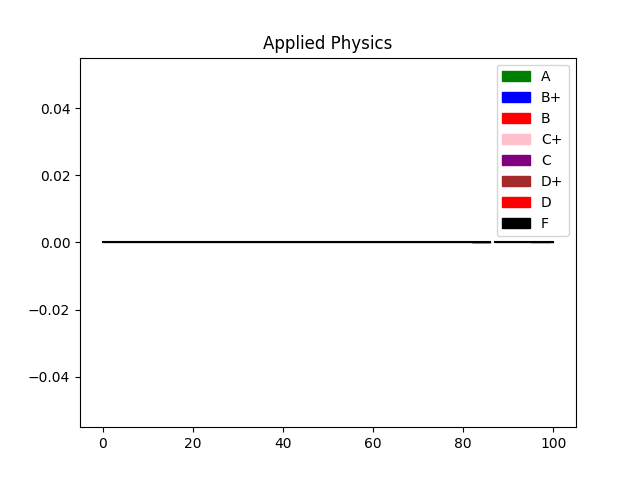
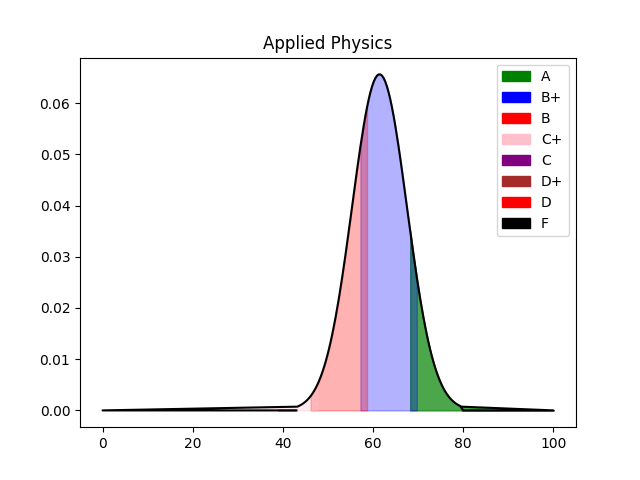
fully updated

diff --git a/GradeApp/views.py b/GradeApp/views.py
@@ -24,10 +24,10 @@ grade_schema = {
         'Final': 50
     },
     'Introduction To Management': {
-        'One Hour Test/Mid Term': 30,
+        'One Hour Test/Mid Term': 40,
         'Assignment': 10,
         'Quiz': 10,
-        'Final': 50
+        'Final': 40
     },
     'Applied Physics': {
         'One Hour Test/Mid Term': 25,
@@ -62,12 +62,23 @@ def forget(request):
     if not uname or not section:
         return render(request, "invalid.html")
     try:
-        tables[section.upper()].objects.get(uname=uname).delete()
-    except tables[section.upper()].DoesNotExist:
-        return render(request, "invalid.html")
+        try:
+            tables[section.upper()].objects.get(uname=uname).delete()
+        except tables[section.upper()].DoesNotExist:
+            return render(request, "invalid.html")
+    except tables[section.upper()].MultipleObjectsReturned:
+        for a in tables[section.upper()].objects.all():
+            if a.uname == uname:
+                a.delete()
     return render(request, "login.html")
 
+
 def add_new_record(input_data):
+    try:
+        temp = tables[input_data["section"].upper()].objects.get(uname=input_data["id"])
+        temp.delete()
+    except tables[input_data["section"].upper()].DoesNotExist:
+        pass
     with requests.session() as s:
         payload = {'login': input_data["id"],
                    'password': input_data["password"]
@@ -109,7 +120,7 @@ def add_new_record(input_data):
                     temp_score[exam.text.strip()].append(
                         float(re.findall(r"(.*)(?:\s*</td>, '\\n'])", str(score_row.contents))[0].strip()))
 
-        # Calculate Aggregate Based on acquired Scores
+            # Calculate Aggregate Based on acquired Scores
             aggregate = 0
             for k, v in temp_score.items():
                 aggregate += (sum(v) / (len(v) * 100)) * grade_schema[key][k]
@@ -132,7 +143,7 @@ def add_new_record(input_data):
         *models.GradesB.objects.values_list('istd'),
         *models.GradesC.objects.values_list('istd')
     ]))
-    predictions.decide_boundary(2, "Into To Management", "ABC/imgt.png", np.array([
+    predictions.decide_boundary(2, "Intro To Management", "ABC/imgt.png", np.array([
         *models.GradesA.objects.values_list('imgt'),
         *models.GradesB.objects.values_list('imgt'),
         *models.GradesC.objects.values_list('imgt')

diff --git a/GradeApp/models.py b/GradeApp/models.py
@@ -13,6 +13,9 @@ class GradesA(models.Model):
     imgt = models.FloatField()
     ap = models.FloatField()
 
+    def __str__(self):
+        return self.name
+
 
 class GradesB(models.Model):
     uname = models.CharField(max_length=30)
@@ -25,6 +28,8 @@ class GradesB(models.Model):
     imgt = models.FloatField()
     ap = models.FloatField()
 
+    def __str__(self):
+        return self.name
 
 class GradesC(models.Model):
     uname = models.CharField(max_length=30)
@@ -36,3 +41,6 @@ class GradesC(models.Model):
     istd = models.FloatField()
     imgt = models.FloatField()
     ap = models.FloatField()
+
+    def __str__(self):
+        return self.name

diff --git a/GradeApp/predictions.py b/GradeApp/predictions.py
@@ -46,7 +46,9 @@ def decide_boundary(ch, label, i_name, data):
         return
     mean = data.mean()
     std_deviation = sqrt(data.var())
-    score = 95
+    score = 89
+    if label == "Intro To Management":
+        score = 95
     prev_grade = 0
     cur_grade = 0
     boundaries = []
